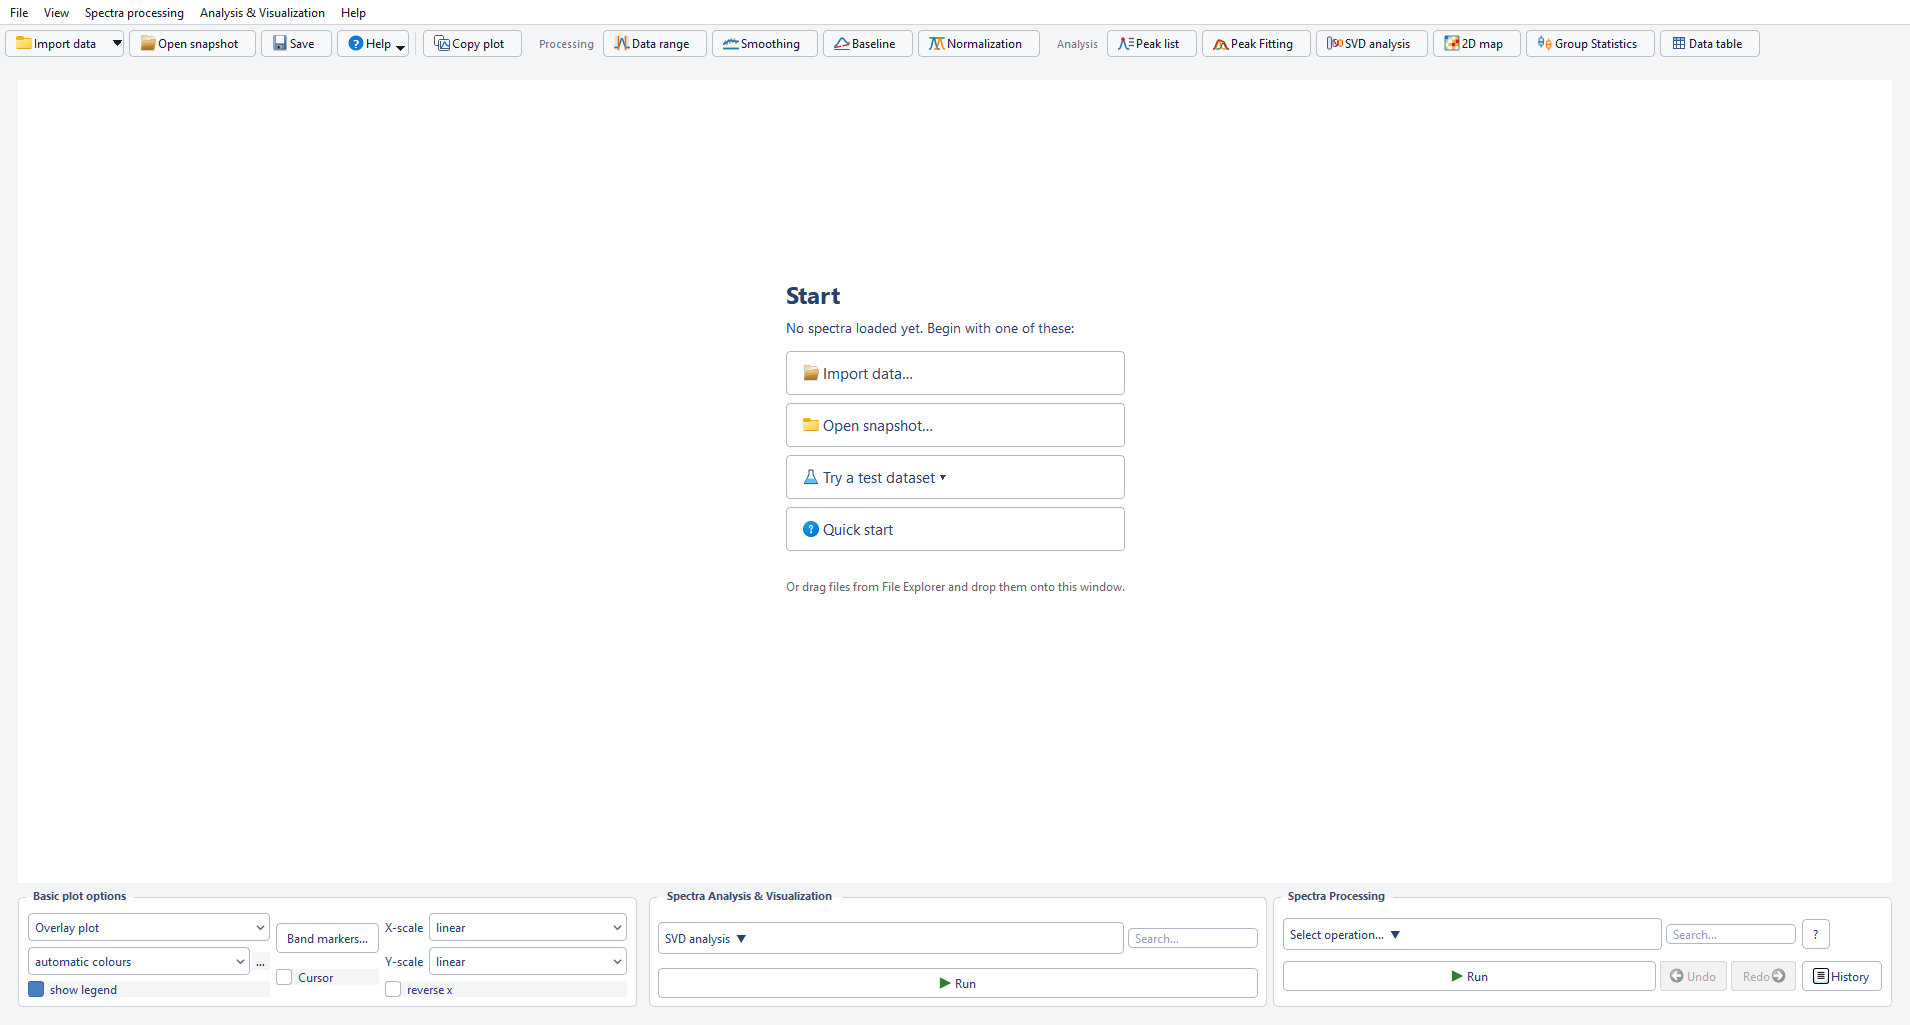
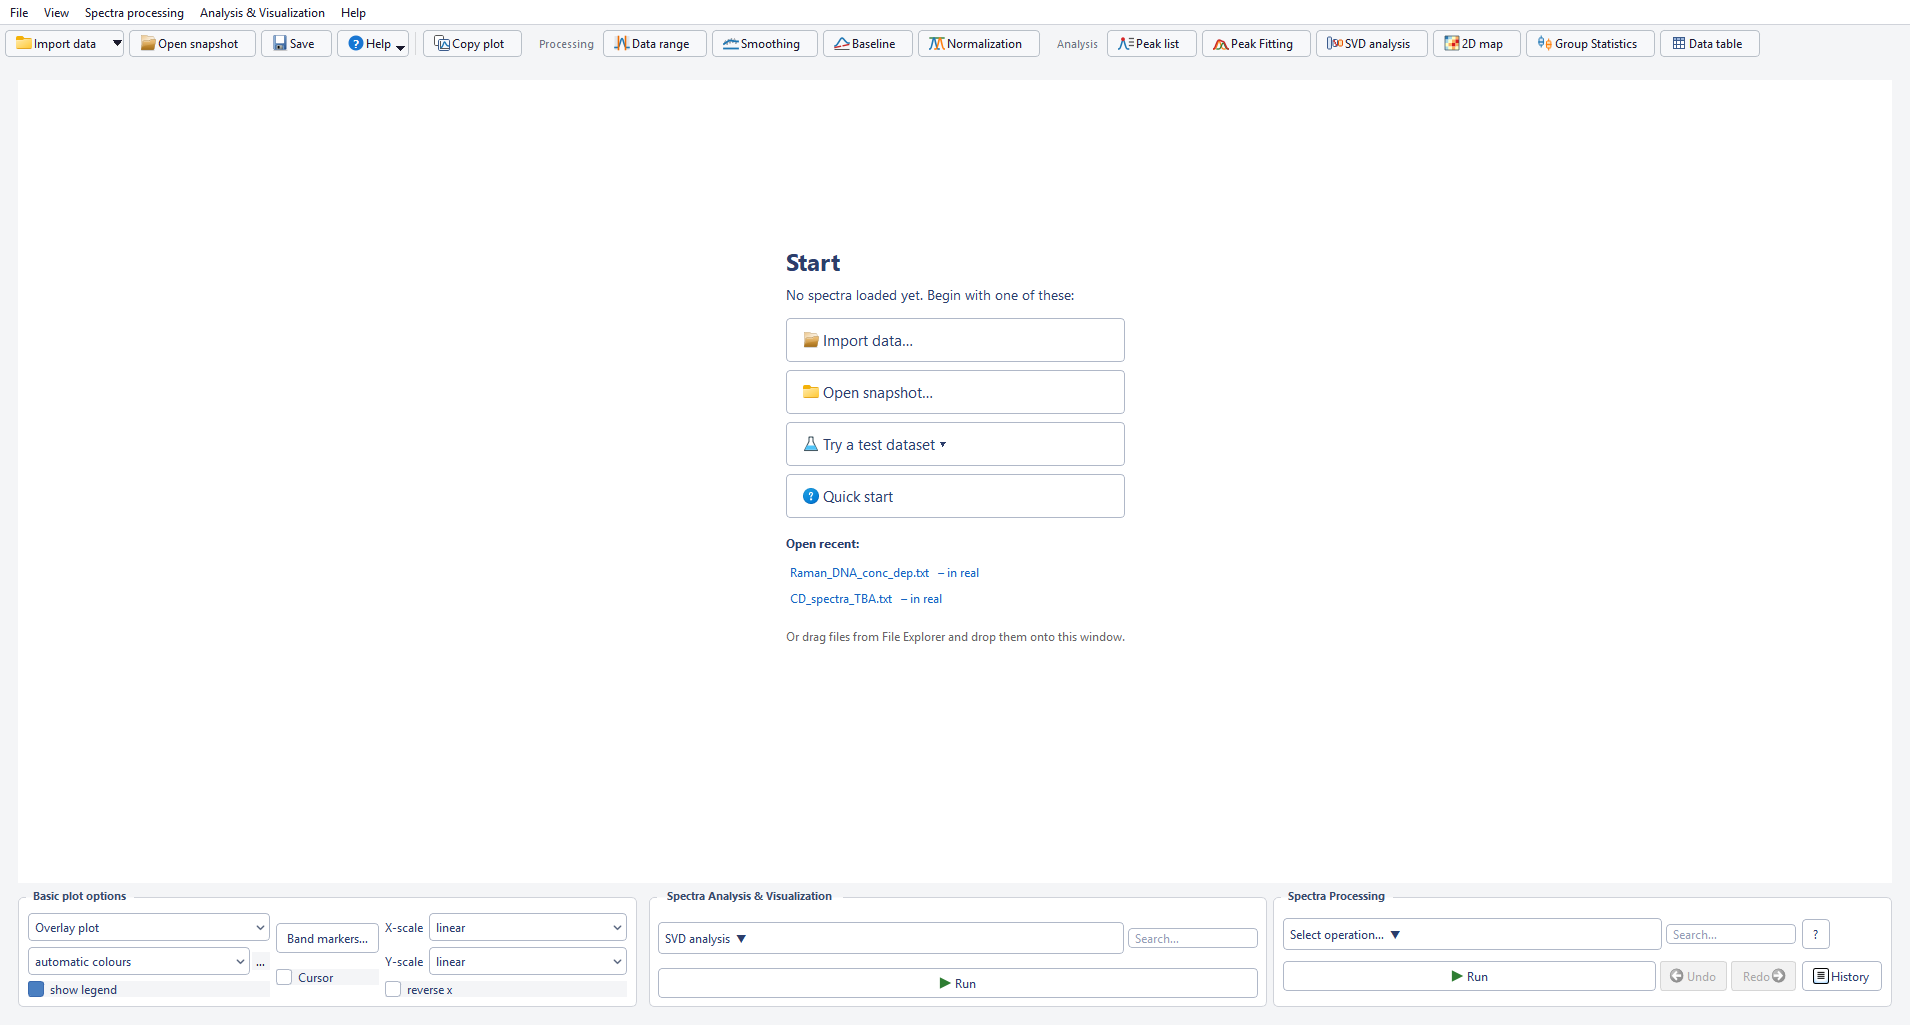
Help picture of the Start page: with the recent files
The script that takes the help pictures put two test files into the
recent list with the label 'file', which the list does not know (only
'data' and 'snapshot'), so they were skipped and the picture of the
Start page had no "Open recent" files, although the help text says it
shows them. Now 'data': the picture shows two recent files. The program
itself was not affected.

Where it is in the code:
- tools/help_pictures/make_user_guide_screenshots.py: the start page
  picture, recent.add(path, 'data')
- resources/images/help_screenshots/user_guide/start_page.png

Changed region(s): [[0.4016, 0.2498, 0.5869, 0.6244]]

diff --git a/tools/help_pictures/make_user_guide_screenshots.py b/tools/help_pictures/make_user_guide_screenshots.py
@@ -122,7 +122,7 @@ def main():
 
     # 0. the start page (no spectra yet), with two shipped files as recent ones
     for path in (TBA, RAMAN):
-        mc.autosave_controller.recent.add(path, 'file')
+        mc.autosave_controller.recent.add(path, 'data')
     mc._update_start_page()
     settle()
     save(view.grab(), 'start_page.png')
